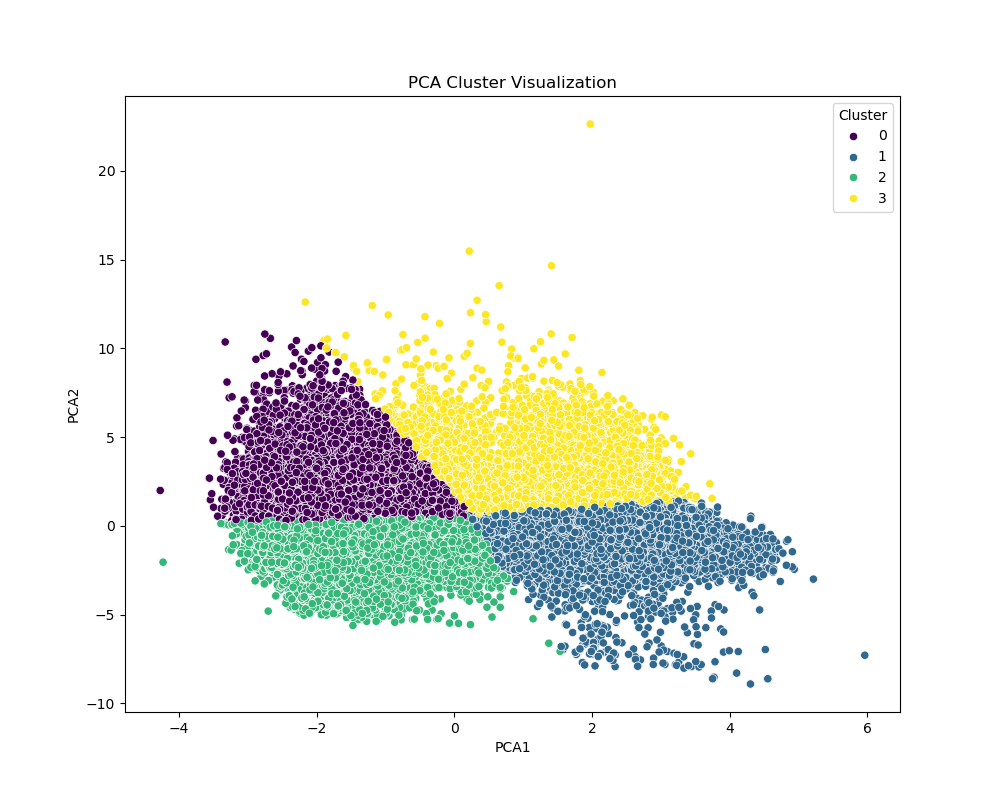
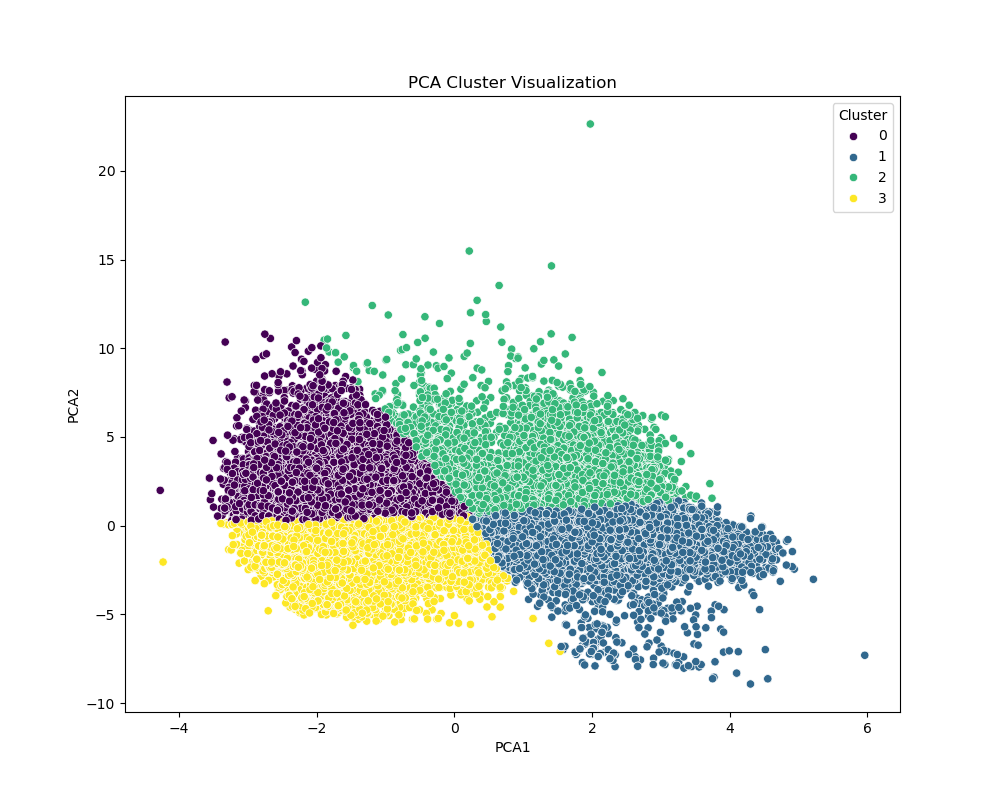
Cluster_improved

Changed region(s): [[0.217, 0.4062, 0.775, 0.7812], [0.465, 0.375, 0.496, 0.4062], [0.372, 0.375, 0.403, 0.4062]]

diff --git a/tool/dimension_reduce.py b/tool/dimension_reduce.py
@@ -21,8 +21,8 @@ def tsne_dimension_reduction(data, components=2):
     reduced_data = tsne.fit_transform(data)
     return reduced_data
 
-# Random sample of the data 1/10
-def random_sample(data, sample_size=0.05):
+# Random sample of the data 1/1000
+def random_sample(data, sample_size=0.001):
     # Calculate the number of samples to select
     num_samples = int(data.shape[0] * sample_size)
     
@@ -34,24 +34,31 @@ def random_sample(data, sample_size=0.05):
     
     return sample
 
-def DR_main(input_path, output_path):
-    df = pd.read_csv(input_path)
+def DR_main(input_path, output_path, type='PCA'):
+    df = pd.read_csv(input_path, dtype={'id': str})
 
     df.replace('Unknown', np.nan, inplace=True)
     df.replace('Nan', np.nan, inplace=True)
 
     for column in df.columns:
         if df[column].dtype == 'object':
-            df[column].fillna(df[column].mode()[0], inplace=True)
+            df[column] = df[column].fillna(df[column].mode().iloc[0])
         else:
-            df[column].fillna(df[column].mean(), inplace=True)
+            df[column] = df[column].fillna(df[column].mean())
+
+    # Try to convert constructionTime to float
+    try:
+        df['constructionTime'] = df['constructionTime'].astype(float)
+    except ValueError:
+        print("Error converting 'constructionTime' to float. Check data for non-numeric values.")
+        return
 
     categorical_columns = ['floor_type', 'renovationCondition', 'buildingStructure', 'elevator', 'fiveYearsProperty', 'subway']
     df = pd.get_dummies(df, columns=categorical_columns, drop_first=True)
 
     columns_of_interest = [
-        'livingRoom', 'drawingRoom', 'kitchen', 'bathRoom', 'floor_num', 
-        'constructionTime', 'ladderRatio', 'district', 'communityAverage'
+        'id', 'livingRoom', 'drawingRoom', 'kitchen', 'bathRoom', 'floor_num', 
+        'constructionTime', 'ladderRatio', 'district', 'communityAverage', 'totalPrice'
     ]
 
     columns_of_interest.extend([col for col in df.columns if any(prefix in col for prefix in categorical_columns)])
@@ -59,32 +66,41 @@ def DR_main(input_path, output_path):
     data = df[columns_of_interest]
 
     scaler = StandardScaler()
-    data_scaled = scaler.fit_transform(data)
+    data_scaled = scaler.fit_transform(data.drop('id', axis=1))  # Exclude 'id' from scaling
 
-    original_data = df[['id'] + columns_of_interest]
+    original_data = df[columns_of_interest]
 
-    # PCA
-    pca_result = pca_dimension_reduction(data_scaled)
-    pca_df = pd.DataFrame(pca_result, index=df.index, columns=['PCA1', 'PCA2'])
-    pca_df = pd.concat([original_data.reset_index(drop=True), pca_df], axis=1)
-    pca_df.to_csv(output_path, index=False)
-    print('PCA reduction is done! Check the "pca_result.csv" file.')
-
-    # MSE
-    # data_scaled_mse = random_sample(data_scaled)
-    # mse_result = mse_dimension_reduction(data_scaled_mse)
-    # mse_df = pd.DataFrame(mse_result, index=df.index, columns=['MSE1', 'MSE2'])
-    # mse_df = pd.concat([original_data.reset_index(drop=True), mse_df], axis=1)
-    # mse_df.to_csv('./../result/data/mse_result.csv', index=False)
-    # print('MSE reduction is done! Check the "mse_result.csv" file.')
-
-    # t-SNE
-    # tsne_result = tsne_dimension_reduction(data_scaled)
-    # tsne_df = pd.DataFrame(tsne_result, index=df.index, columns=['tSNE1', 'tSNE2'])
-    # tsne_df = pd.concat([original_data.reset_index(drop=True), tsne_df], axis=1)
-    # tsne_df.to_csv('./../result/data/tsne_result.csv', index=False)
-    # print('t-SNE reduction is done! Check the "tsne_result.csv" file.')
-
+    if type == 'PCA':
+        # PCA
+        pca_result = pca_dimension_reduction(data_scaled)
+        pca_df = pd.DataFrame(pca_result, index=df.index, columns=['PCA1', 'PCA2'])
+        pca_df = pd.concat([original_data.reset_index(drop=True), pca_df], axis=1)
+        pca_df.to_csv(output_path, index=False)
+        print('PCA reduction is done! Check the "pca_result.csv" file.')
+    elif type == 'MSE':
+        # MSE
+        data_scaled_mse = random_sample(data_scaled)
+        # Create column names for the sampled data
+        columns = data.drop('id', axis=1).columns  # Use the columns of the original scaled data
+        data_scaled_mse_df = pd.DataFrame(data_scaled_mse, columns=columns)
+        data_scaled_mse_df.to_csv('./result/data/mse_sampled_data.csv', index=False)
+        mse_result = mse_dimension_reduction(data_scaled_mse)
+        mse_df = pd.DataFrame(mse_result, columns=['MSE1', 'MSE2'])
+        mse_df = pd.concat([original_data.reset_index(drop=True).iloc[:len(mse_df)], mse_df], axis=1)
+        mse_df.to_csv(output_path, index=False)
+        print('MSE reduction is done! Check the "mse_result.csv" file.')
+    else:
+        # t-SNE
+        data_scaled_tsne = random_sample(data_scaled)
+        # Create column names for the sampled data
+        columns = data.drop('id', axis=1).columns  # Use the columns of the original scaled data
+        data_scaled_tsne_df = pd.DataFrame(data_scaled_tsne, columns=columns)
+        data_scaled_tsne_df.to_csv('./result/data/tsne_sampled_data.csv', index=False)
+        tsne_result = tsne_dimension_reduction(data_scaled_tsne, 3)
+        tsne_df = pd.DataFrame(tsne_result, columns=['tSNE1', 'tSNE2', 'tSNE3'])
+        tsne_df = pd.concat([original_data.reset_index(drop=True).iloc[:len(tsne_df)], tsne_df], axis=1)
+        tsne_df.to_csv(output_path, index=False)
+        print('t-SNE reduction is done! Check the "tsne_result.csv" file.')
 
 if __name__ == "__main__":
-    DR_main()
+    DR_main(input_path='input.csv', output_path='output.csv', type='PCA')

diff --git a/model/kmeans.py b/model/kmeans.py
@@ -1,29 +1,70 @@
 import pandas as pd
 from sklearn.cluster import KMeans
+from sklearn.metrics import silhouette_score
 import matplotlib.pyplot as plt
 import seaborn as sns
+from mpl_toolkits.mplot3d import Axes3D
 
 def perform_kmeans_clustering(data, num_clusters=4):
     kmeans = KMeans(n_clusters=num_clusters, random_state=0)
     clusters = kmeans.fit_predict(data)
     return clusters, kmeans
 
-def KM_main(KM_DR_input_path, KM_ori_input_path, KM_cluster_centroids_path, KM_pca_clustered_result_path, KM_pca_cluster_visualization_path):
-    # Load the PCA result and original data
-    pca_df = pd.read_csv(KM_DR_input_path)
-    original_df = pd.read_csv(KM_ori_input_path)
+def find_optimal_clusters(data, max_clusters=10):
+    iters = range(2, max_clusters + 1, 1)
     
+    sse = []
+    silhouette_scores = []
+    
+    for k in iters:
+        kmeans = KMeans(n_clusters=k, random_state=0)
+        kmeans.fit(data)
+        sse.append(kmeans.inertia_)
+        silhouette_scores.append(silhouette_score(data, kmeans.labels_))
+    
+    fig, (ax1, ax2) = plt.subplots(1, 2, figsize=(15, 5))
+    
+    ax1.plot(iters, sse, marker='o')
+    ax1.set_xlabel('Cluster Number')
+    ax1.set_ylabel('SSE')
+    ax1.set_title('Elbow Method')
+    
+    ax2.plot(iters, silhouette_scores, marker='o')
+    ax2.set_xlabel('Cluster Number')
+    ax2.set_ylabel('Silhouette Score')
+    ax2.set_title('Silhouette Method')
+    
+    plt.show()
+
+    optimal_clusters = silhouette_scores.index(max(silhouette_scores)) + 2
+    return optimal_clusters
+
+def KM_main(KM_DR_input_path, KM_ori_input_path, KM_cluster_centroids_path, KM_pca_clustered_result_path, KM_pca_cluster_visualization_path, type='PCA'):
+    # Load the PCA result and original data
+    dr_df = pd.read_csv(KM_DR_input_path)
+    original_df = pd.read_csv(KM_ori_input_path)
+
     # Ensure the original dataframe has the id column as string to merge correctly
     original_df['id'] = original_df['id'].astype(str)
-    pca_df['id'] = pca_df['id'].astype(str)
+    dr_df['id'] = dr_df['id'].astype(str)
 
-    # Merge the PCA result with the original data to get the total_price column
-    merged_df = pd.merge(pca_df, original_df[['id', 'totalPrice']], on='id')
+    if type == 'PCA':
+        # Merge the PCA result with the original data to get the totalPrice column
+        merged_df = pd.merge(dr_df, original_df[['id', 'totalPrice']], on='id')
+    else:
+        merged_df = original_df
 
-    pca_data = merged_df[['PCA1', 'PCA2']]
+    if type == 'PCA':
+        data = merged_df[['PCA1', 'PCA2']]
+    elif type == 'MSE':
+        data = merged_df[['MSE1', 'MSE2']]
+    else:
+        data = merged_df[['tSNE1', 'tSNE2', 'tSNE3']]
 
-    num_clusters = 4
-    clusters, kmeans = perform_kmeans_clustering(pca_data, num_clusters)
+    optimal_clusters = find_optimal_clusters(data)
+    print(f"Optimal number of clusters: {optimal_clusters}")
+
+    clusters, kmeans = perform_kmeans_clustering(data, optimal_clusters)
 
     merged_df['Cluster'] = clusters
 
@@ -46,7 +87,13 @@ def KM_main(KM_DR_input_path, KM_ori_input_path, KM_cluster_centroids_path, KM_p
     ).reset_index()
 
     # Add the centroids to the cluster summary
-    centroids_df = pd.DataFrame(centroids, columns=['PCA1', 'PCA2'])
+    if type == 'PCA':
+        centroids_df = pd.DataFrame(centroids, columns=['PCA1', 'PCA2'])
+    elif type == 'MSE':
+        centroids_df = pd.DataFrame(centroids, columns=['MSE1', 'MSE2'])
+    else:
+        centroids_df = pd.DataFrame(centroids, columns=['tSNE1', 'tSNE2', 'tSNE3'])
+
     cluster_summary = pd.concat([cluster_summary, centroids_df], axis=1)
 
     # Save the centroids to a CSV file
@@ -55,12 +102,31 @@ def KM_main(KM_DR_input_path, KM_ori_input_path, KM_cluster_centroids_path, KM_p
     merged_df.to_csv(KM_pca_clustered_result_path, index=False)
 
     plt.figure(figsize=(10, 8))
-    sns.scatterplot(x='PCA1', y='PCA2', hue='Cluster', palette='viridis', data=merged_df, legend='full')
-    plt.title('PCA Cluster Visualization')
+    if type == 'PCA':
+        sns.scatterplot(x='PCA1', y='PCA2', hue='Cluster', palette='viridis', data=merged_df, legend='full')
+        plt.title('PCA Cluster Visualization')
+    elif type == 'MSE':
+        sns.scatterplot(x='MSE1', y='MSE2', hue='Cluster', palette='viridis', data=merged_df, legend='full')
+        plt.title('MSE Cluster Visualization')
+    else:
+        fig = plt.figure(figsize=(10, 8))
+        ax = fig.add_subplot(111, projection='3d')
+        scatter = ax.scatter(merged_df['tSNE1'], merged_df['tSNE2'], merged_df['tSNE3'], c=merged_df['Cluster'], cmap='viridis')
+        legend1 = ax.legend(*scatter.legend_elements(), title="Clusters")
+        ax.add_artist(legend1)
+        plt.title('tSNE Cluster Visualization')
+    
     plt.savefig(KM_pca_cluster_visualization_path)
     plt.show()
 
-    print("Clustering is done! Check the 'pca_clustered_result.csv', 'cluster_centroids.csv', and 'pca_cluster_visualization_4.png' files.")
+    print("Clustering is done! Check the clustered result and visualization files.")
 
 if __name__ == "__main__":
-    KM_main()
+    KM_main(
+        KM_DR_input_path='path_to_dr_input.csv',
+        KM_ori_input_path='path_to_ori_input.csv',
+        KM_cluster_centroids_path='path_to_centroids.csv',
+        KM_pca_clustered_result_path='path_to_clustered_result.csv',
+        KM_pca_cluster_visualization_path='path_to_cluster_visualization.png',
+        type='PCA'  # or 'MSE' or 'tSNE' based on your requirement
+    )

diff --git a/cluster.py b/cluster.py
@@ -2,14 +2,34 @@ from tool import *
 from model import *
 
 DR_input_path = './data/BeijingHousingPrices_processed_modified.csv'
-DR_output_path = './result/data/pca_result.csv'
+DR_output_path_PCA = './result/data/pca_result.csv'
+DR_output_path_MSE = './result/data/MSE_result.csv'
+DR_output_path_TSNE = './result/data/tsne_result.csv'
 
-DR_main(DR_input_path, DR_output_path)
+# DR_main(DR_input_path, DR_output_path_PCA)
+# DR_main(DR_input_path, DR_output_path_MSE, type='MSE')
+DR_main(DR_input_path, DR_output_path_TSNE, type='TSNE')
 
-KM_DR_input_path = './result/data/pca_result.csv'
+KM_DR_PCA_input_path = './result/data/pca_result.csv'
+KM_DR_MSE_input_path = './result/data/MSE_result.csv'
+KM_DR_TSNE_input_path = './result/data/tsne_result.csv'
+
 KM_ori_input_path = './data/BeijingHousingPrices_processed.csv'
-KM_cluster_centroids_path = './result/data/cluster_centroids.csv'
-KM_pca_clustered_result_path = './result/data/pca_clustered_result.csv'
-KM_pca_cluster_visualization_path = './result/picture/pca_cluster_visualization_4.png'
+KM_mse_input_path = './result/data/MSE_result.csv'
+KM_tsne_input_path = './result/data/tsne_result.csv'
 
-KM_main(KM_DR_input_path, KM_ori_input_path, KM_cluster_centroids_path, KM_pca_clustered_result_path, KM_pca_cluster_visualization_path)
+KM_PCA_cluster_centroids_path = './result/data/pca_cluster_centroids.csv'
+KM_MSE_cluster_centroids_path = './result/data/MSE_cluster_centroids.csv'
+KM_TSNE_cluster_centroids_path = './result/data/tsne_cluster_centroids.csv'
+
+KM_pca_clustered_result_path = './result/data/pca_clustered_result.csv'
+KM_mse_clustered_result_path = './result/data/mse_clustered_result.csv'
+KM_tsne_clustered_result_path = './result/data/tsne_clustered_result.csv'
+
+KM_pca_cluster_visualization_path = './result/picture/pca_cluster_visualization_4.png'
+KM_mse_cluster_visualization_path = './result/picture/mse_cluster_visualization_4.png'
+KM_tsne_cluster_visualization_path = './result/picture/tsne_cluster_visualization_4.png'
+
+# KM_main(KM_DR_PCA_input_path, KM_ori_input_path, KM_PCA_cluster_centroids_path, KM_pca_clustered_result_path, KM_pca_cluster_visualization_path)
+# KM_main(KM_DR_MSE_input_path, KM_mse_input_path, KM_MSE_cluster_centroids_path, KM_mse_clustered_result_path, KM_mse_cluster_visualization_path,type='MSE')
+KM_main(KM_DR_TSNE_input_path, KM_tsne_input_path, KM_TSNE_cluster_centroids_path, KM_tsne_clustered_result_path, KM_tsne_cluster_visualization_path,type='TSNE')
